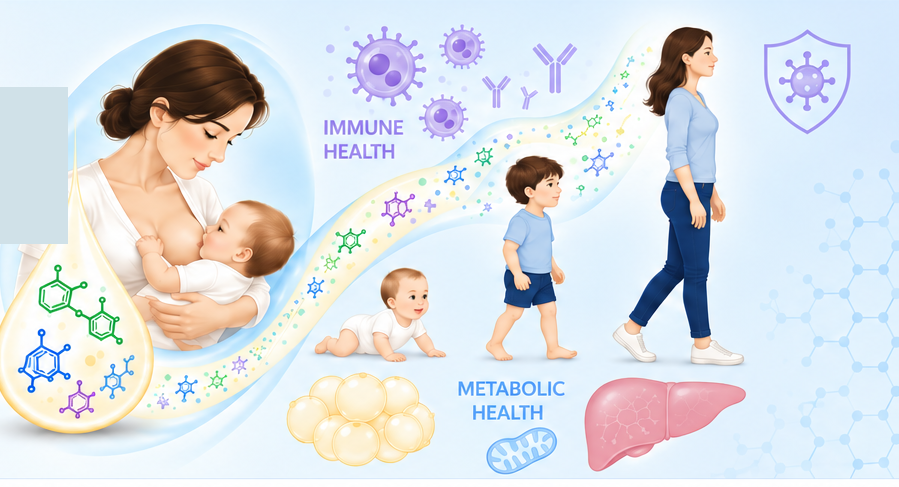
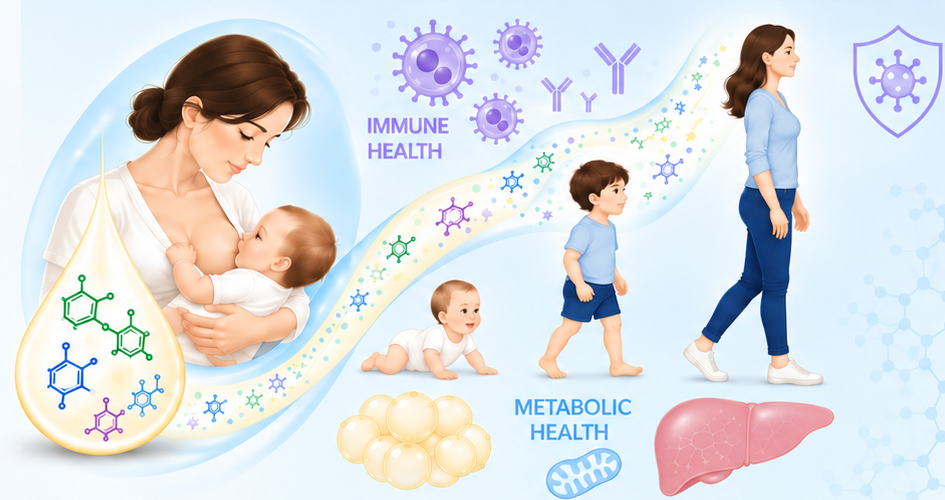
Add files via upload

diff --git a/styles.css b/styles.css
@@ -140,7 +140,7 @@ nav a.active{
 .hero-art img{
   width:100%;
   height:100%;
-  object-fit:cover;
+  object-fit:contain;
   object-position:center center;
   display:block;
 }
@@ -279,7 +279,6 @@ nav a.active{
   color:var(--navy);
   font-style:normal;
   font-size:1rem!important;
-  letter-spacing:.005em;
 }
 
 footer{
@@ -378,8 +377,15 @@ footer span + span:before{
   }
 }
 
-/* Final footer placement */
+/* Polished homepage overrides */
+.hero-art img{
+  object-fit:contain !important;
+  object-position:center center !important;
+}
 .footer-tagline{
   margin-left:0 !important;
+  font-style:normal !important;
+}
+.tagline{
   font-style:normal !important;
 }
